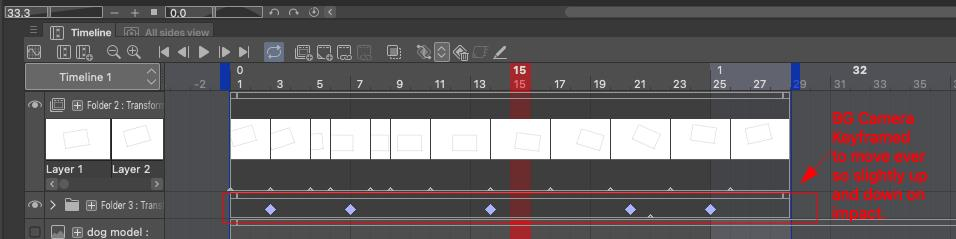
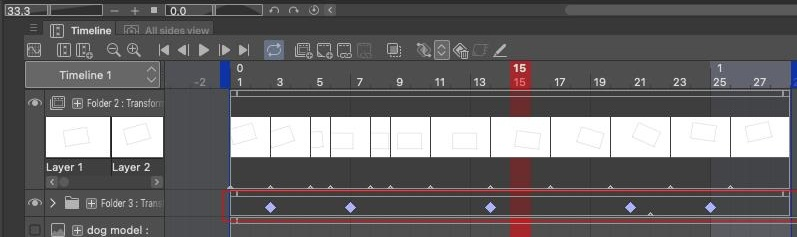
added more content to anim critique blogpost + more css updates

diff --git a/src/index.css b/src/index.css
@@ -37,7 +37,7 @@ body{
     font-family: "Avenir";
     color: rgb(229, 255, 192);
     /* background-image: linear-gradient(rgb(184, 255, 181),rgb(128, 241, 185)); */
-    background-image: linear-gradient(rgb(28, 31, 28), rgb(59, 76, 73) ,rgb(100, 148, 126));
+    background-image: linear-gradient(rgb(28, 33, 33), rgb(59, 76, 73) ,rgb(77, 126, 110));
 }
 
 footer{
@@ -69,7 +69,7 @@ ul{
 
 ul a, .intro-link, a{
     text-decoration: none;
-    color: rgb(113, 239, 153);
+    color: rgb(170, 254, 184);
 }
 
 ul a:hover{
@@ -215,11 +215,13 @@ ul a:hover{
 }
 
 .content img{
-    max-width: 60em;
+    max-width: 100%;
     max-height: 40em;
-    width: 100%;
-    height: auto;
     border: solid;
     border-width: thin;
 }
 
+.content a{
+    text-decoration: underline;
+    color: rgb(38, 255, 0);
+}

diff --git a/public/assets/content/RunningDog/runningdog.md b/public/assets/content/RunningDog/runningdog.md
@@ -39,26 +39,30 @@ Here are my initial thoughts on it:
 ### Small Project Break Down..
 
 #### Animation Layers:
-1. dog
-2. run cycle
-3. shadow
-4. foreground (ground and trees)
-5. make the ground long so that it you can move it x-axis. 
-6. background (sky and clouds)
+1. Dog
+2. Shadow
+3. Foreground (ground and trees)
+    1. Make the ground long so that it you can move it x-axis. 
+4. Background (clouds)
+5. Sky
 
 #### My Workflow for this critique demo:
-1. sketch the dog running
-2. sketch the dog's shadow
-3. sketch the long bg on a different document. if animating, then composite it later. 
-4. do one ver composited and one not composited (for the bg)...
-5. sketch the clouds moving
+1. Sketch the dog running
+2. Sketch the dog's shadow
+3. Sketch the long bg on a different document. if animating, then composite it later. 
+4. Lineart the bg
+5. Color the bg
+6. Lineart the dog
+7. Color the dog
+8. Color the Shadow
+9. Composite (Either baked in or after export.)
 
 #### I'll be making Two versions:
-1. Dog running with animated bg but without any composting
-2. Dog running with animated bg with compositing
+1. Dog running with animated bg (BAKED IN Compositing)
+2. Dog running with animated bg (Compositing after Exporting)
 
 #### Composting tips:
-1. Export EACH animation layer separately so as to be able to add effects to them.. by layers I don't mean the dog's legs being on a different layer than its eyes... I mean Dog and its sublayers get exported as 1 png animation, bg gets exported etc.. Anything you need to composite separately gets exported as its own png gif or image sequence.
+1. Export EACH animation layer separately so as to be able to add effects to them.. by layers I don't mean the dog's legs being on a different layer than its eyes... I mean Dog and its sublayers get exported as 1 png animation, bg gets exported as its own animation etc.. Anything you need to composite separately gets exported as its own png gif or image sequence.
 
 ---
 
@@ -114,11 +118,85 @@ Here, I have the background animation folders within a larger folder and applied
 
 The rectangle "dog" was outside the "camera" folder so as to not be affected by the camera keyframes.
 
+Background camera keyframed to ever-so-slightly move up and down upon impact.
+
 ![camera_keyframe](assets/content/RunningDog/img/camerakeyframe.jpg)
 
-![camera_keyframe](assets/content/RunningDog/img/camera-keyframe.gif)
+![camera_keyframe_gif](assets/content/RunningDog/img/camera-keyframe.gif)
 
-This is suuuuuper rough.. Let's make this better and start sketching the dog :D
+This is suuuuuper rough (bg timing is not very good either and should be fixed..).. Let's make this better and start sketching the dog :D
+
+![doglayer](assets/content/RunningDog/img/doglayer.jpg)
+
+Imma start with the head..
+
+![dogheadske](assets/content/RunningDog/img/dogheadske.gif)
+
+When the dog lands, it'll crouch a bit so the head will be lower than it is now on those frames but for now, lets get the general movement down before worrying about that.
+
+Adding the neck guidelines / sketch:
+
+![dogheadneck](assets/content/RunningDog/img/dogheadneck.gif)
+
+Adding the body (mainly rib placement atm)
+
+![dogheadneckbod](assets/content/RunningDog/img/dogheadneckbod.gif)
+
+Adding the tail.. this one was a bit complicated.. had to fiddle with it for a bit..
+
+![dogtail](assets/content/RunningDog/img/dogtail.gif)
+
+OMG.. dogs are hard to draw lmaooo (not rly I just need more practice to get good at it XD)
+
+Looked up a dog running gif on the internet for some reference..
+
+Ok.. I think Imma just stylize the legs instead of making them look realistic.. maybe gonna give him "hoof-like" legs instead cuz I'm too lazy to learn how to draw a dog just for a critique XD
+
+![doglegz](assets/content/RunningDog/img/doglegz.gif)
+
+Aight, added the ears and snout..
+
+![runningdogskebgless](assets/content/RunningDog/img/runningdogskebgless.gif)
+
+
+Checking how it looks with the bg:
+
+![runningdogfullske](assets/content/RunningDog/img/runningdogfullske.gif)
+
+Pretty good so far..
+
+I decided that it would be easier to just draw the dog lineart on a different animation layer than the sketch just in case I add more in betweens so made another layer for lineart.
+
+![dognewlayer](assets/content/RunningDog/img/dognewlayer.jpg)
+
+I will most likely color in the same animation layer (not same layer as the lineart but think of EACH frame in the animation layer as a folder and within that folder there are many more layers like lineart, color, etc.)
+
+Switching gears, I decided to work on the background and created a new 1920 x 1080 CSP file. I then changed the canvas size so as to make it super long horizontally so as to make a revolving background. remember that the rightmost and leftmost section of your bg would need to be "connectable" with each other to sell that continuous effect when looping.
+
+I also expanded the canvas slightly vertically so as to maintain enough space for the camera's slight vertical pan when the dog jumps.
+
+![bgdoc](assets/content/RunningDog/img/bgdoc.jpg)
+
+I started with the clouds. 
+
+![cloudline](assets/content/RunningDog/img/cloudline.jpg)
+
+I don't think there is wind strong enough to really make the clouds move drastically in any direction without it blowing the dog away (Clouds usually move rather slowly.. so unless the camera is focused on the clouds, you probs won't see it move much if at all.) so I'll keep the clouds static and have it wrap around in a revolving loop later.
+
+![cloudske](assets/content/RunningDog/img/cloudske.jpg)
+
+What I mean by revolve is if you take the right and leftmost cloud and you put them together, they should line up perfectly...
+
+![cloudwrap](assets/content/RunningDog/img/cloudwrap.jpg)
+
+This is so that when you pan, you start with lining up the right side of this image to the right edge of the dog anim, and then you pan it by dragging it to the right slowly and smoothly. By the time it reaches the right side, there is no more art to continue it, you wrap it around and keyframe the image from its starting position coming in from the left..
+
+It'll probably make more sense to see it in action... (Keep in mind this is still quite rough... but it gets the point across..)
+
+This one is sped up so it doesn't take as much space on my github.. If you want to see the video at normal speed, here is the link: [https://youtu.be/Z0TCPKRYMY8](https://youtu.be/Z0TCPKRYMY8).
+
+![cloudwrapdemo](assets/content/RunningDog/img/CloudWrapDemo.mov)
+
 
 
 

diff --git a/public/assets/content/IntroCyAndDen/IntroCyAndDen.md b/public/assets/content/IntroCyAndDen/IntroCyAndDen.md
@@ -3,12 +3,12 @@ title: Introducing Cy and Den
 author: Mitsuki Youko
 date_created: 2025-03-27
 tag: misc
-blurb:
+blurb: Introducing Cyanscythe and Goldenmage
 ---
 
 ### What is / Who are CyanScythe (Cy) and GoldenMage (Den)?
 
-I've always loved drawing and creating characters and figured... Why not mash that and what I learn in Ethical Hacking together?
+I love drawing and creating characters and figured... Why not mash that and what I learn in Ethical Hacking together?
 That gave me the idea of drawing infographics whenever I learned something that could be infographic-worthy.
  
 Since I needed a name for my blog I just randomly came up with the word CyanScythe and created a character based off of that which I thought would be cool as an attacker type character. Then I thought "Well attacker = red team.. so I'll need a "defender" and so I created GoldenMage.
